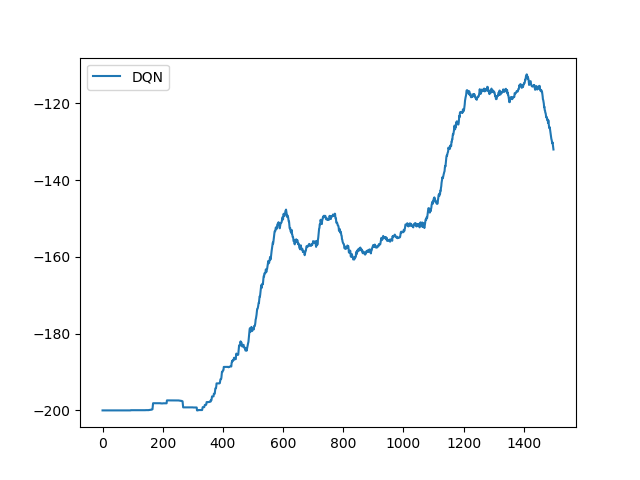
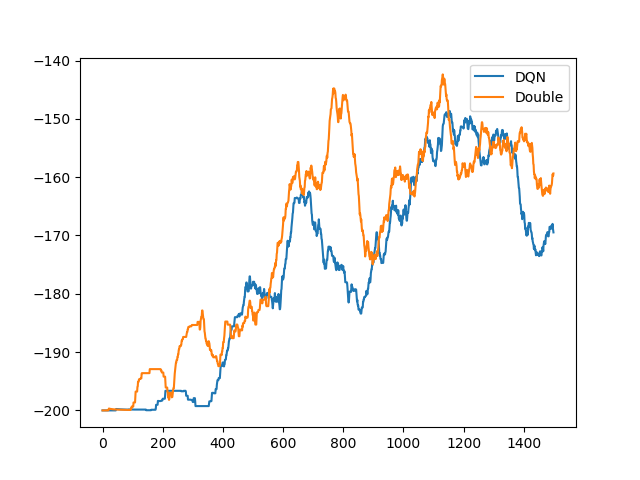
Success double DQN

diff --git a/Assignment3/dqn.py b/Assignment3/dqn.py
@@ -99,7 +99,13 @@ class DQN:
             if done:
                 target_y = reward
             else:
-                target_y = reward + DISCOUNT_RATE * np.amax(self.target_Q.predict_on_batch(np.reshape(next_state,(1,2))))
+                # Double DQN
+                if self.double_q:
+                    action_from_main = np.argmax(self.main_Q.predict_on_batch(np.reshape(next_state,(1,2))))
+                    target_y = reward + DISCOUNT_RATE * self.target_Q.predict_on_batch(np.reshape(next_state,(1,2)))[0][action_from_main]
+                # DQN
+                else:
+                    target_y = reward + DISCOUNT_RATE * np.amax(self.target_Q.predict_on_batch(np.reshape(next_state,(1,2))))
             y = self.main_Q.predict_on_batch(np.reshape(state,(1,2)))
             y = y.numpy()
             y[0][action] = target_y
@@ -172,10 +178,10 @@ class DQN:
 
                 # if start_learn:
                 if self.total_step > 5000: # 랜덤으로 좀 돌고 학습하기.
-                    if self.total_step%50 == 0:
+                    if self.total_step%200 == 0:
                         self.target_Q.set_weights(self.main_Q.get_weights())
                     # 일정 step마다 train
-                    if self.total_step%10 == 0:
+                    if self.total_step%50 == 0: # 한 번 train시 32(mini batch size만큼)번씩 학습함.
                         self.train_minibatch()  # step마다 미니배치 학습시키기. (에피소드마다로 바꿀지 테스트해보기.)
 
                 state = next_state
